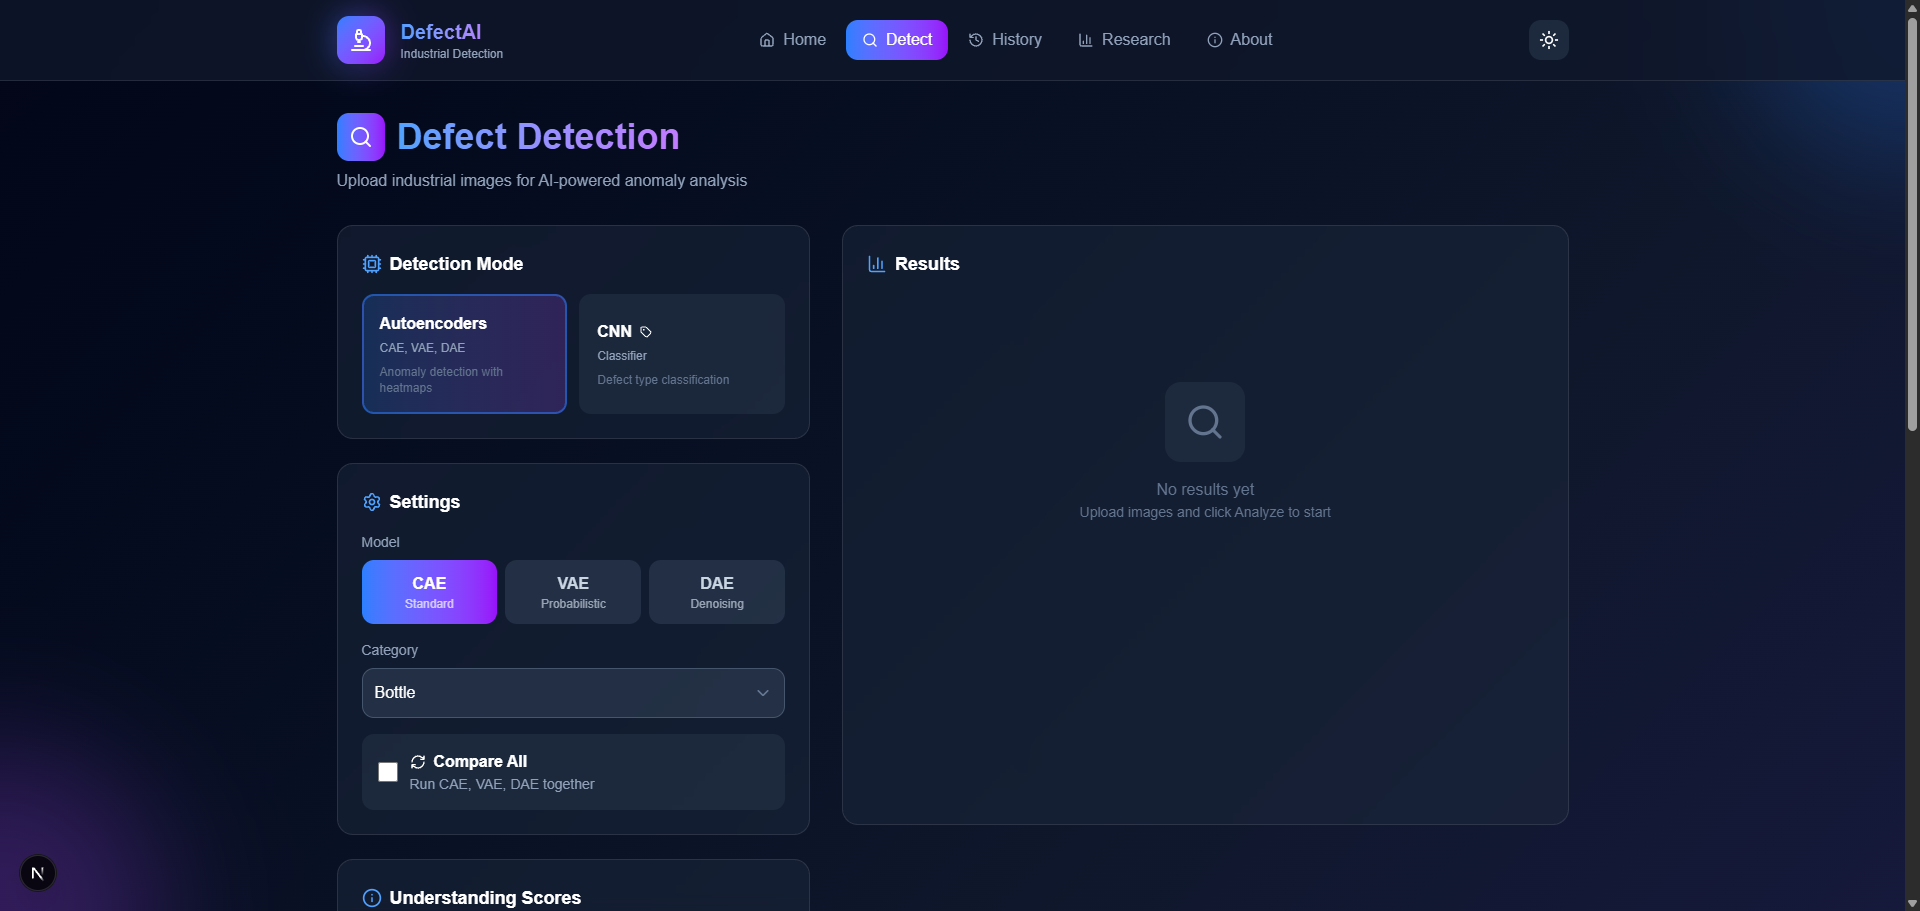
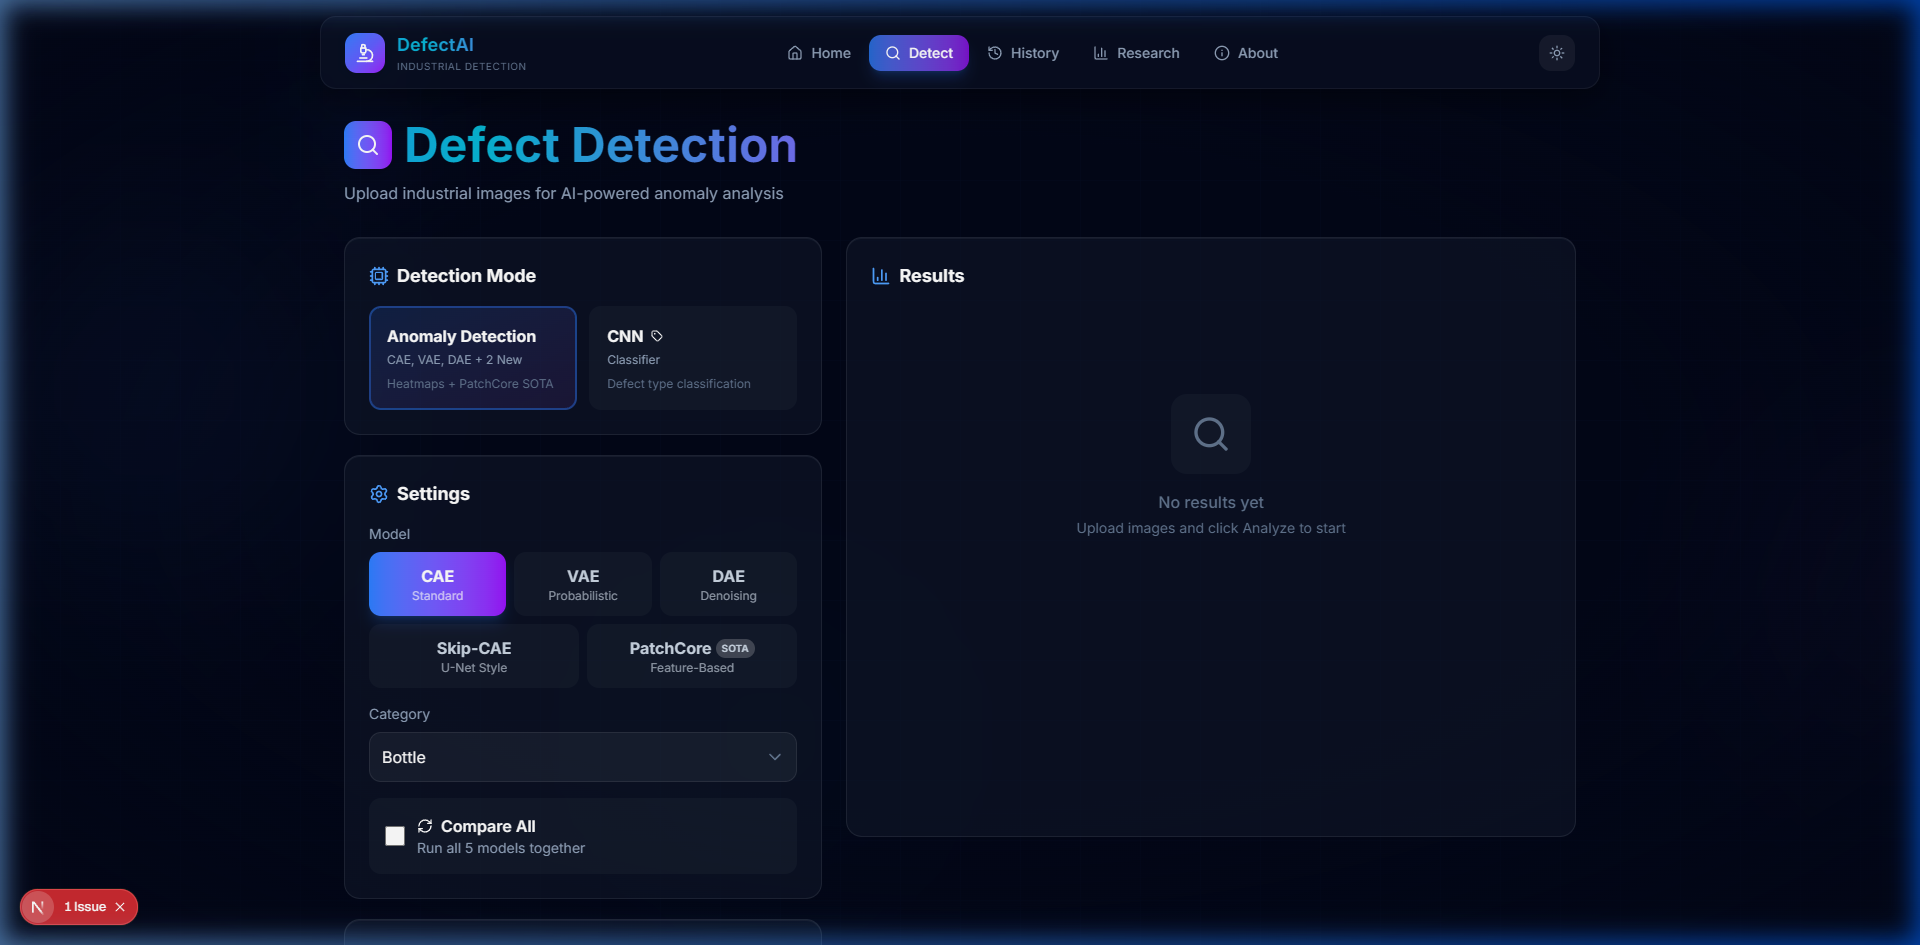
docs: add project screenshots and update readme with aesthetic and feature descriptions

diff --git a/readme.md b/readme.md
@@ -12,19 +12,31 @@
 
 ## 🌐 Web Application
 
-A full-stack web application for interactive defect detection:
+A stunning, 3D-inspired full-stack web application for interactive defect detection featuring glassmorphism UI, animated gradient effects, and deep OLED-dark aesthetics:
 
-| Homepage | Detection Page |
-|----------|----------------|
-| ![Homepage](web/frontend/public/homepage.png) | ![Detection](web/frontend/public/detectpage.png) |
+### Homepage
+![Homepage](web/frontend/public/homepage.png)
+
+### Homepage — Stats & Workflow
+![Homepage Scrolled](web/frontend/public/homepage_scrolled.png)
+
+### Detection Page — AI-Powered Analysis
+![Detection Page](web/frontend/public/detectpage.png)
+
+### Research Results — Data Visualization
+![Research Page](web/frontend/public/researchpage.png)
+
+### About — Project Overview
+![About Page](web/frontend/public/aboutpage.png)
 
 ### Features
 - 🔍 **Real-time Detection** - Upload images and get instant AI analysis
 - 🧠 **6 AI Models** - CAE, VAE, DAE, Skip-CAE, PatchCore (SOTA), CNN
 - 🌡 **Visual Heatmaps** - Gaussian-smoothed anomaly maps + SSIM scoring
 - 📊 **Compare All Models** - Side-by-side 5-model comparison with batch API
-- 🌓 **Dark/Light Mode** - Full theme support
+- 🌓 **Dark/Light Mode** - Full theme support with glassmorphism
 - 📜 **History Tracking** - Keep track of all predictions
+- ✨ **3D Effects** - CSS perspective transforms, glow borders, animated gradients
 
 ### Quick Start
 ```bash
